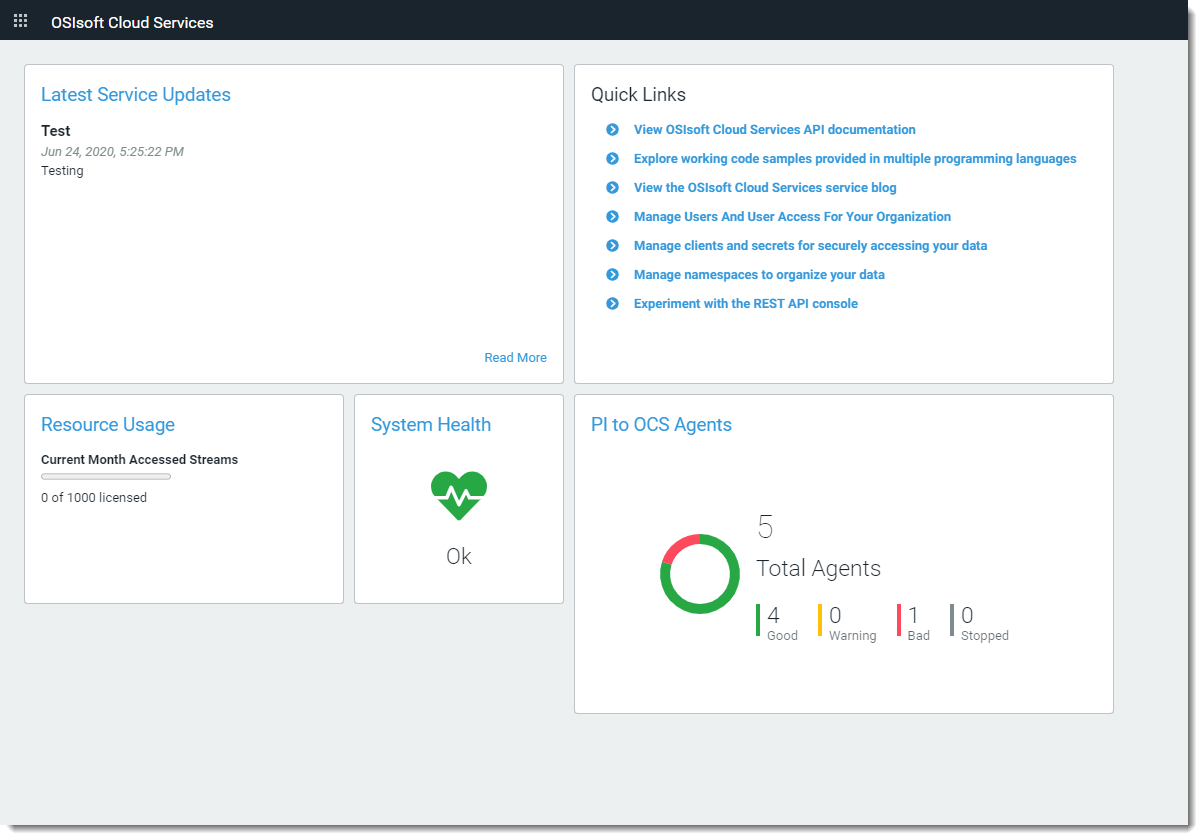
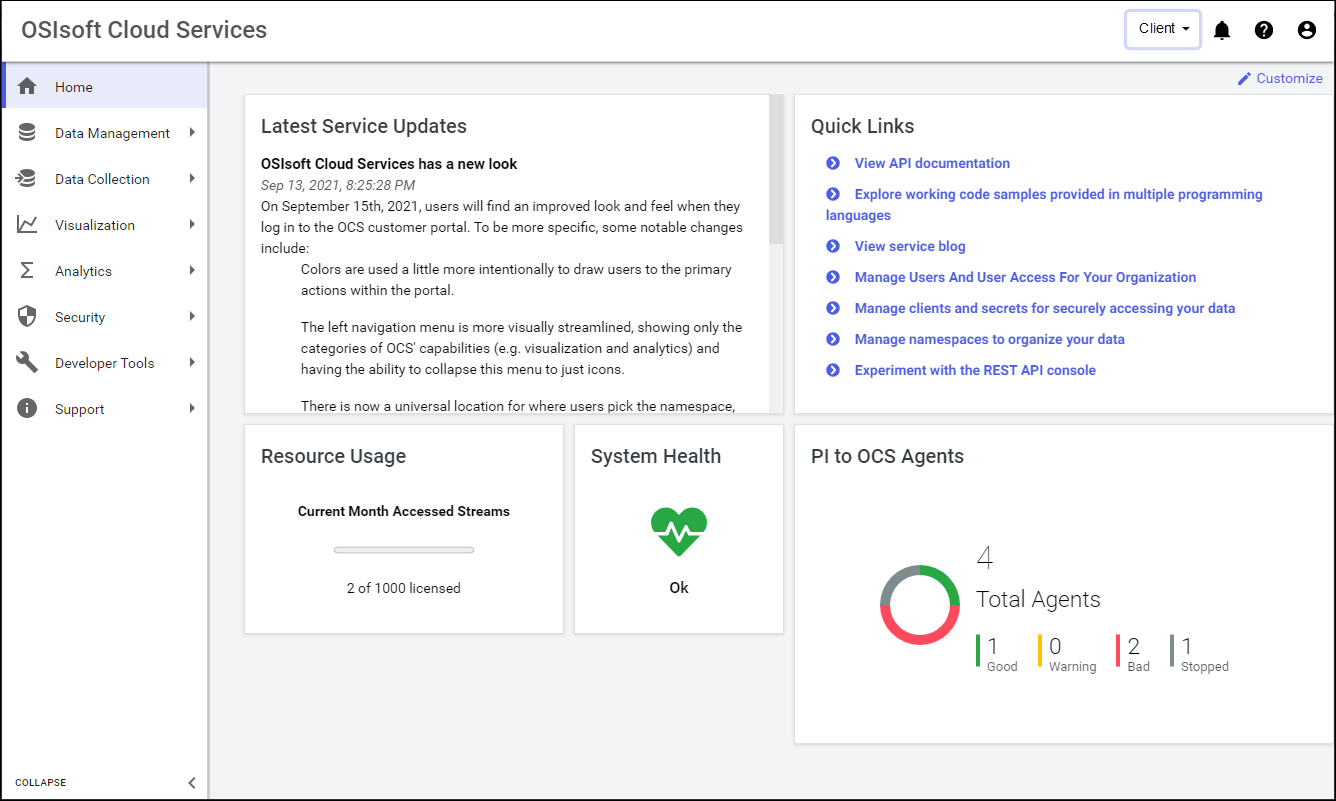
Updates to topic for rebranding effort.
Replaced & eliminated certain screenshots.
Edited wording to reflect new menu & rebranding changes to UI.

diff --git a/content/overview/get-started/introduction-portal-interface.md b/content/overview/get-started/introduction-portal-interface.md
@@ -11,27 +11,21 @@ Access and interact with OCS through the web-based portal. When you first access
 
 ## OCS features
 
-Clicking the navigation icon at top left opens a menu of OCS features. This icon is always available in the OCS portal.
-
-![Menu icon](../images/menu-icon.png "Menu icon")
-
-Click the navigation icon to access the OCS features. <!--Angela Flores 6/23/21 - I would take the feature menu screenshot out. The list below explains the contents. Given the rapid pace of development, this screenshot is always going to be out-of-date. -->
-
-![Feature menu](../images/feature-menu.png "Feature menu")
+The left pane contains a collapsable menu. Click a menu item to expand a section and access OCS features. Click the **COLLAPSE** chevron at the bottom of the menu to collapse or expand the menu. <!--Angela Flores 6/23/21 - I would take the feature menu screenshot out. The list below explains the contents. Given the rapid pace of development, this screenshot is always going to be out-of-date. --><!--VTT 9/20/21 - Removed feature menu screenshot for rebranding.-->
 
 OCS includes the following features:
 
-- **Data Management**: Provides tools for setting up basic capabilities of OCS, including tenants, connections to PI Systems, the Sequential Data Store (SDS), and metadata rules for data streams.
-- **Data Collection**: Provides mechanisms to bring data from multiple sources and systems into a namespace within OCS.
+- **Data Management**: Provides tools for setting up basic capabilities of OCS, including tenants, the Sequential Data Store (SDS), and metadata rules for data streams.
+- **Data Collection**: Provides the ability to bring data from multiple sources and systems into a OCS namespace.
 - **Visualization**: Allows you to view data trends and use assets to set up digital twins of real-world physical entities. <!--Angela Flores 6/23/21 - this is the only place in the documentation that uses the phrase "digital twins of real-world physical entities". What feature is that trying to describe? The only thing in the Visualization portion of the documentation is Trend. -->
 - **Analytics**: Provides tools for shaping and querying large datasets.
-- **Security**: Allows you to specify identity providers for authentication and add users, roles, and clients to your tenant.
+- **Security**: Allows you to specify identity providers for authentication and add groups, users, roles, and clients to your tenant.
 - **Developer Tools**: Provides code samples, an API console, and an editor for the OSIsoft Message Format (OMF).
-- **Support**: Provides access to documentation, logs, support links, an OCS blog, and other useful information.
+- **Support**: Provides access to documentation, logs, support links, the OCS blog, and other useful information.
 
 ## Feature pages
 
-Clicking a menu item takes you to a page for that feature.
+Clicking a menu item takes you to the related feature page.
 
 ![Feature details](../images/feature-details.png "Feature details")
 
@@ -40,23 +34,21 @@ Most pages consist of two panes:
 - The left pane is where you perform the tasks associated with the OCS resource. For example, the left pane is where you add and edit the OCS resource or manage its permissions.
 - The right pane has one or more tabs:
   - The Details tab contains additional information about the selected resource.
-  - The Information tab provides documentation about the current feature and describes how to perform relevant tasks.
+  - The Information tab appears in some windows and provides documentation about the current feature and how to perform relevant tasks.
   - Some resources have additional panes for other configuration tasks.
 
-## Notifications
+## Top right of portal
 
-At top right, the View Notifications icon lists any OCS-generated notifications.
+There are several icons and links at the top right of the portal.
 
-![Notifications icon](../images/notifications-icon.png "Menu icon")
+![Icons and links in top right of portal window](../images/top-right-portal-window.png)
 
-## User and tenant information
+The table below provides a list and description of these items.
 
-At top right, a drop-down menu gives you access to the following information about your user profile and tenant:
-
-- Tenant information
-- Resource usage data
-- User profile information and roles assigned to your user
-
-The menu also provides a link to a page where you can give feedback about OCS.
-
-![User and tenant information](../images/user-and-tenant.png "User and tenant information")
+| Numbered Item/Name | Function |
+|---------------|----------|
+| 1 - Namespace |Lists and allows you to change the current namespace. |
+| 2 - View Notifications icon |Click to view  OCS-generated notifications. | 
+| 3 - Question mark icon | Click to access online documentation. |
+| 4 - User profile icon  | Click to view a dropdown menu of the following: The currently logged in user, tenant details, resource usage, feedback page, and sign out of the portal. |
+| 5 - Customize link | Click to customize the layout of the OCS portal home page. |
